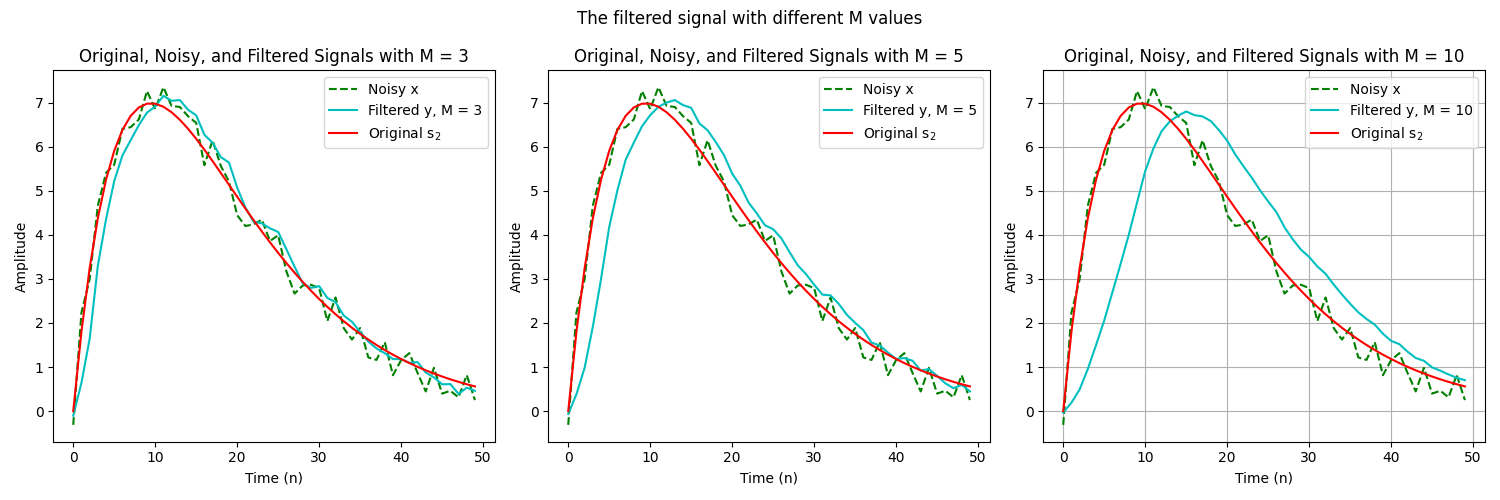
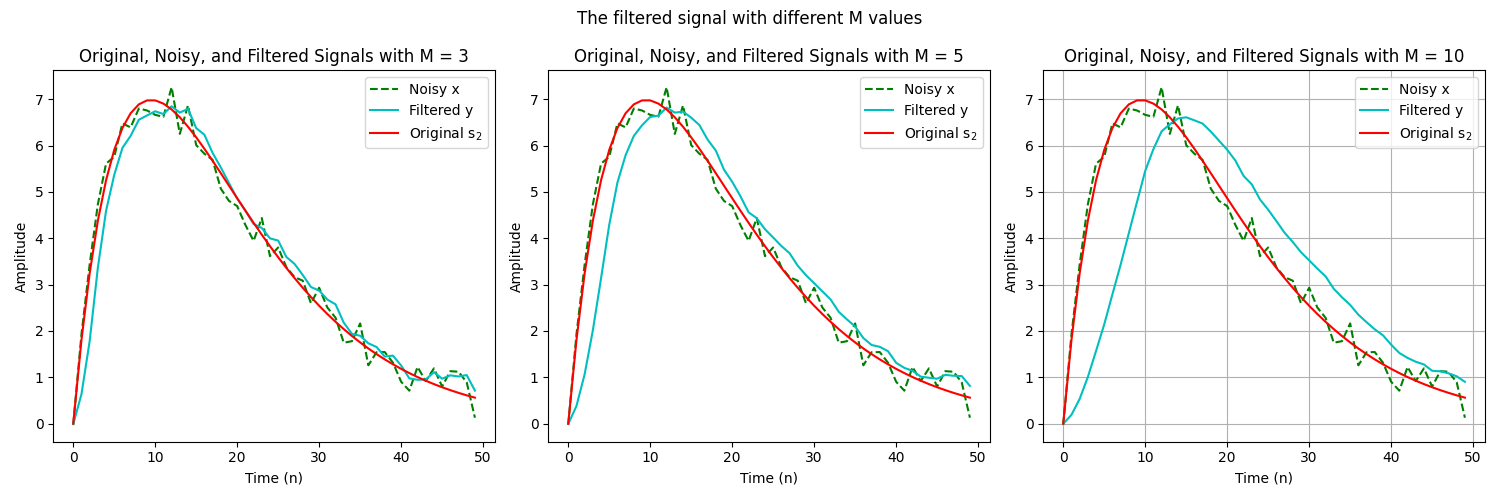
chore: change legend

diff --git a/lab1/task2.py b/lab1/task2.py
@@ -58,7 +58,7 @@ def noiseFilter(moreM=False, s2=False):
             y = lfilter(b, 1, x)
             
             axs[i].plot(m, x, 'g--', label='Noisy x') 
-            axs[i].plot(m, y, 'c-', label=f'Filtered y, M = {M_val}')
+            axs[i].plot(m, y, 'c-', label=f'Filtered y')
             axs[i].plot(m, s, 'r-', label='Original s$_2$')
             axs[i].set_title(f'Original, Noisy, and Filtered Signals with M = {M_val}')
             axs[i].set_xlabel('Time (n)')
